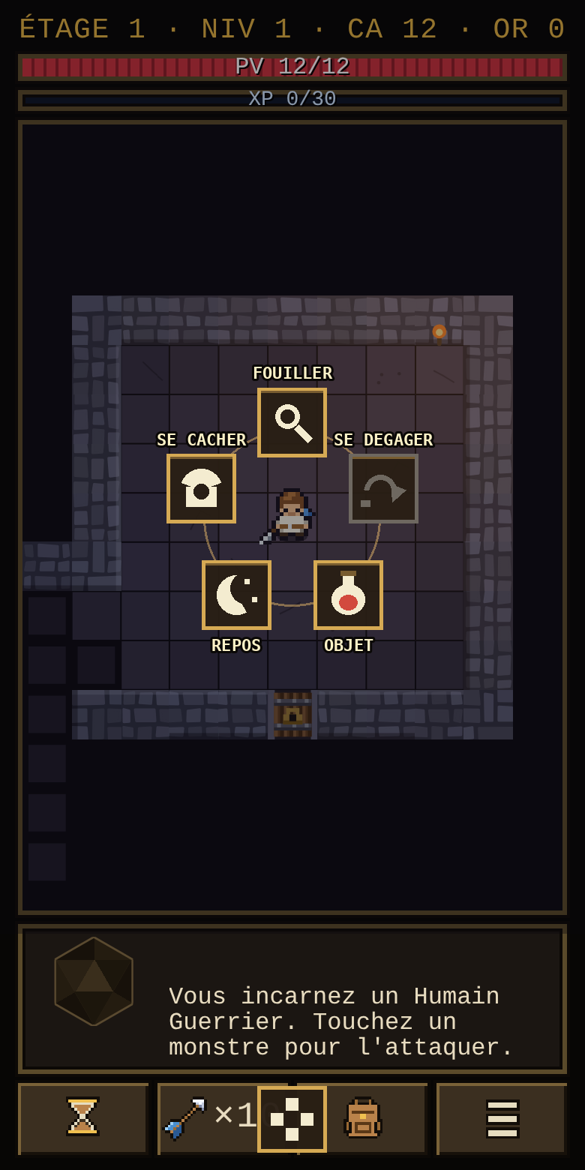
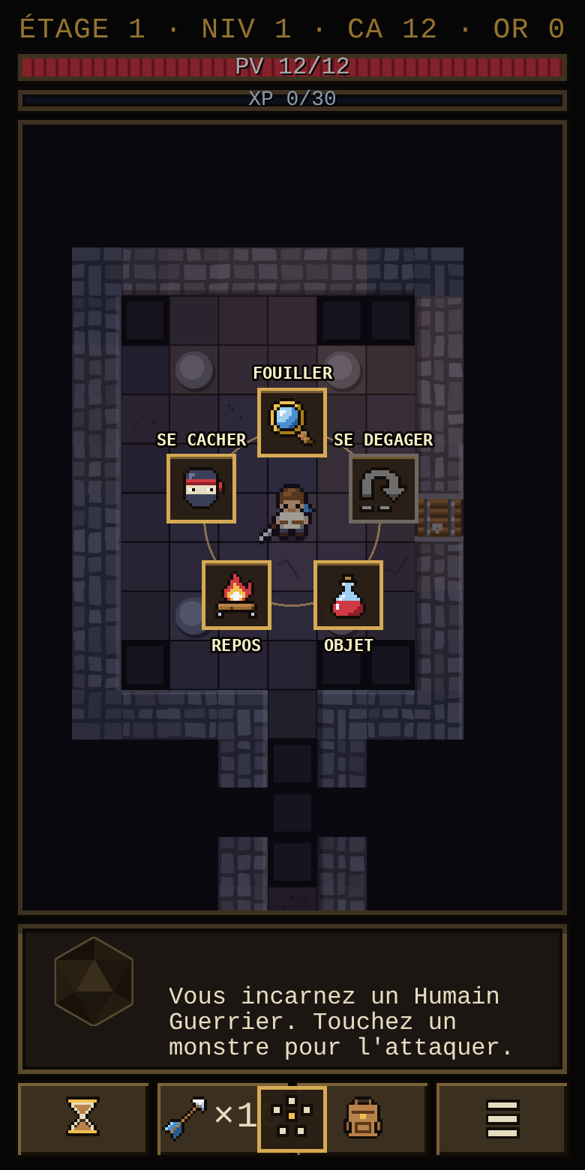
Pictogrammes de la roue d'actions en pixels, dans le style des icônes du jeu
Loupe refaite, ninja pour se cacher, flèche pour se dégager, fiole, feu de camp.
Maquette de la roue mise à jour. Rien n'est branché dans le jeu.

Claude-Session: https://claude.ai/code/session_01TLwcm2eofnSYjAtsLj84z7

diff --git a/art/pictos_roue.py b/art/pictos_roue.py
@@ -1,0 +1,144 @@
+"""Pictogrammes de la roue d'actions, dans le style des icônes du jeu (16x16, palette de src/ui/icons.ts)."""
+from PIL import Image, ImageDraw, ImageFont
+PALETTE = {"K":"#120d08","W":"#f4f7ff","S":"#c3cbe0","D":"#7f88a6","G":"#f0c050","g":"#a87c1c","B":"#9a6a34","b":"#5a3817","R":"#d03a44","r":"#8e1f28","L":"#e6dcc0","C":"#6e7594","c":"#a4abc8","T":"#b9824a","t":"#7a5230","P":"#7a5aa0","p":"#4a3266","H":"#3a4058","U":"#4a8fd0","u":"#2a5a94","V":"#9fd0f4"}
+ICONS = {
+ "search": [  # loupe : monture dorée, verre bleuté à reflet, manche de bois
+  "....KKKKK.......",
+  "..KKGGGGGKK.....",
+  ".KGGKKKKKGgK....",
+  ".KGKVVVVUKgK....",
+  "KGKVWWVVUUKgK...",
+  "KGKVWVVVUUKgK...",
+  "KGKVVVVUUUKgK...",
+  "KGKVVVUUUuKgK...",
+  "KGKUUUUUuuKgK...",
+  ".KGKUUUuuKgK....",
+  ".KGgKKKKKggKK...",
+  "..KKgggggKKTTK..",
+  "....KKKKKKTTBK..",
+  "..........KBTBK.",
+  "...........KBbbK",
+  "............KKK.",
+ ],
+ "hide": [  # ninja simplifié : cagoule sombre, bandeau rouge noué, deux yeux
+  "................",
+  "....KKKKKKKK....",
+  "...KHHHHHHHHK...",
+  "..KHCCHHHHHHHK..",
+  "..KHCHHHHHHHHK..",
+  "..KRRRRRRRRRRKK.",
+  "..KrrrrrrrrrrKRK",
+  "..KLLLLLLLLLLKRK",
+  "..KLWKLLLLWKLKrK",
+  "..KLLLLLLLLLLK.K",
+  "..KHHHHHHHHHHK..",
+  "..KHHHHHHHHHHK..",
+  "...KHHHHHHHHK...",
+  "....KHHHHHHK....",
+  ".....KKKKKK.....",
+  "................",
+ ],
+ "disengage": [  # flèche dorée qui bondit par-dessus deux cases
+  "................",
+  "....KKKKKK......",
+  "..KKGGGGGGKK....",
+  ".KGGGGGGGGGGK...",
+  ".KGGGKKKKGGGGK..",
+  "KGGGK....KGGGK..",
+  "KGGGK....KGGGK..",
+  "KGGGK..KKKGGGKKK",
+  "KGGGK..KGGGGGGGK",
+  "KGGGK...KGGGGGK.",
+  "KgggK....KgggK..",
+  "KKKKK.....KgK...",
+  "...........K....",
+  "................",
+  "KLLLK.KLLLK.....",
+  "KKKKK.KKKKK.....",
+ ],
+ "item": [  # fiole : bouchon de liège, verre, liquide rouge
+  "................",
+  "......KKKK......",
+  "......KTTK......",
+  ".....KKKKKK.....",
+  ".....KWVVVK.....",
+  "......KVVK......",
+  "......KVVK......",
+  ".....KVVVVK.....",
+  "....KVWVVVVK....",
+  "...KVWVVVVVVK...",
+  "...KRRRRRRRRK...",
+  "..KRWRRRRRRRrK..",
+  "..KRWRRRRRRrrK..",
+  "..KRRRRRRRrrrK..",
+  "...KRRRRrrrrK...",
+  "....KKKKKKKK....",
+ ],
+ "rest": [  # feu de camp : flammes sur deux bûches croisées
+  ".......K........",
+  "......KRK.......",
+  "......KRRK......",
+  ".....KRRRK..K...",
+  ".....KRGRRKKRK..",
+  "....KRRGGRRKRK..",
+  "...KRRGGGGRRRK..",
+  "...KRGGWWGGRRK..",
+  "...KRGWWWWGRK...",
+  "....KRGWWGRK....",
+  "..KKKKKKKKKKKK..",
+  ".KTTTTTTTTTTTBK.",
+  ".KBBBBbBBBBBBbK.",
+  "..KKKKKKKKKKKK..",
+  ".KSK........KSK.",
+  ".KKK........KKK.",
+ ],
+ "actions": [  # bouton du bas : la roue elle-même (cinq pastilles autour d'un centre doré)
+  "......KKKK......",
+  "......KLLK......",
+  "......KLLK......",
+  ".KKKK.KKKK.KKKK.",
+  ".KLLK......KLLK.",
+  ".KLLK.KKKK.KLLK.",
+  ".KKKK.KGGK.KKKK.",
+  "......KGGK......",
+  "......KKKK......",
+  "................",
+  "...KKKK..KKKK...",
+  "...KLLK..KLLK...",
+  "...KLLK..KLLK...",
+  "...KKKK..KKKK...",
+  "................",
+  "................",
+ ],
+}
+for n, rows in ICONS.items():
+    assert len(rows) == 16 and all(len(r) == 16 for r in rows), (n, [len(r) for r in rows])
+    assert all(c == "." or c in PALETTE for r in rows for c in r), n
+
+def render(name, scale, grey=False):
+    im = Image.new("RGBA", (16 * scale, 16 * scale), (0, 0, 0, 0)); d = ImageDraw.Draw(im)
+    for y, row in enumerate(ICONS[name]):
+        for x, c in enumerate(row):
+            if c == ".": continue
+            h = PALETTE[c].lstrip("#"); r, g, b = (int(h[i:i+2], 16) for i in (0, 2, 4))
+            if grey and c != "K":
+                v = int((r * 3 + g * 5 + b * 2) / 10 * 0.6); r = g = b = v
+            d.rectangle([x * scale, y * scale, (x + 1) * scale - 1, (y + 1) * scale - 1], fill=(r, g, b, 255))
+    return im
+
+if __name__ == "__main__":
+    LABELS = [("search", "FOUILLER"), ("disengage", "SE DEGAGER"), ("item", "OBJET"), ("rest", "REPOS"), ("hide", "SE CACHER"), ("actions", "BOUTON DU BAS")]
+    S = 12; pad = 26; cell = 16 * S + pad * 2
+    sheet = Image.new("RGB", (cell * 3, (cell + 110) * 2), (26, 20, 14)); d = ImageDraw.Draw(sheet)
+    f = ImageFont.truetype("/usr/share/fonts/truetype/dejavu/DejaVuSansMono-Bold.ttf", 22)
+    for i, (n, lab) in enumerate(LABELS):
+        ox = (i % 3) * cell; oy = (i // 3) * (cell + 110)
+        d.rectangle([ox + 10, oy + 10, ox + cell - 10, oy + cell - 10], fill=(40, 30, 20), outline=(214, 170, 84), width=4)
+        sheet.paste(render(n, S), (ox + pad, oy + pad), render(n, S))
+        # taille réelle sur un bouton (2 px par point), actif puis grisé
+        for k, g in enumerate((False, True)):
+            bx = ox + 60 + k * 70; by = oy + cell + 4
+            d.rectangle([bx, by, bx + 47, by + 47], fill=(40, 30, 20), outline=(214, 170, 84) if not g else (110, 104, 96), width=2)
+            sheet.paste(render(n, 2, g), (bx + 8, by + 8), render(n, 2, g))
+        d.text((ox + cell / 2, oy + cell + 76), lab, fill=(255, 243, 200), font=f, anchor="mm")
+    sheet.save("art/pictos_roue_v1.png"); print(sheet.size)
